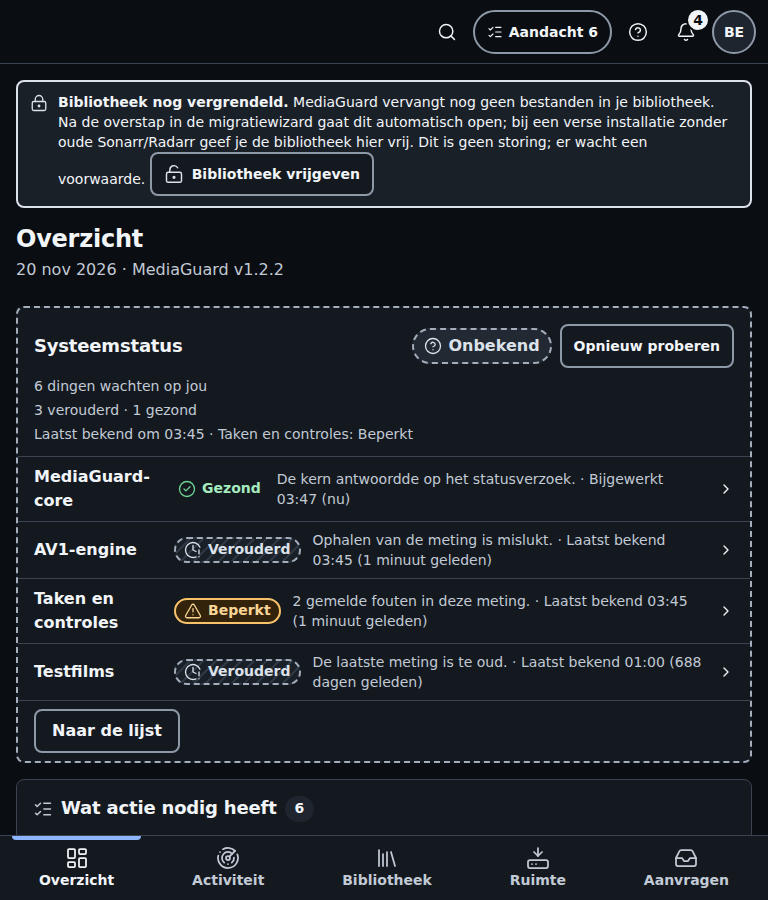
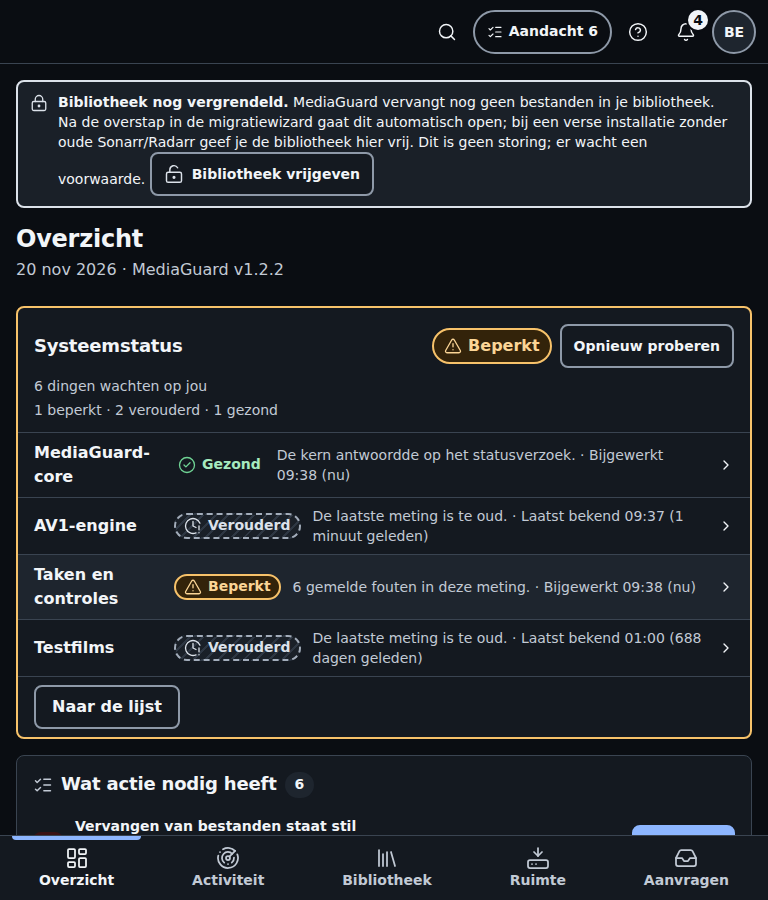
Leg de herstelde weergave op 768 pixels vast

diff --git a/docs/ontwerp/PEIL_REVIEW.md b/docs/ontwerp/PEIL_REVIEW.md
@@ -773,4 +773,8 @@ De meettijd hoort bij het leesverzoek dat het element voedt. Een actuele databas
 
 De uitvoerbare inventaris staat in `apps/web/e2e/werk-bronversheid.spec.ts`. De browser doorloopt voor iedere opgenomen bron en elk bijbehorend element vers, oud met HTTP 200, een afgebroken verbinding, HTTP 403 en herstel. Voor bronnen met een opgeslagen meettijd blijft de HTTP-datering vers terwijl uitsluitend het tijdveld in de gegevens veroudert. De aanvullende veiligheidsproef verandert de bron ná het openen van de dialoog en telt de schrijfverzoeken. De herhaalproef controleert de melding, Enter en horizontale overloop tijdens de storing op zes breedtes in beide thema’s.
 
+Bij meerdere ontbrekende actiebronnen toont de kopbalk de bevestigde ondergrens, het aantal ontbrekende bronnen en hun oudste meettijd. Ontbreekt een meettijd, dan verschijnt ‘Onbekend’. De toegankelijke beschrijving van de teller en de actiekaart noemen elke bron afzonderlijk. De meldingenbel toont haar eigen meettijd bij de knop. De breedteproef controleert ook de kophoogte en de bediening van de bel wanneer deze gegevens tegelijk verouderen of worden geweigerd.
+
+Op de uitgangsversie faalden zes van de zeven browserproeven van de reviewer. De breedteproef slaagde daar al. De herstelbuild doorstond alle 48 bron- en veiligheidsproeven, waaronder 35 tabelgevallen. De kopbalkproef vond op de vorige build 87 pixels horizontale overloop bij gelijktijdig verouderde metingen. Op de herstelbuild pasten kop en bel op de zes getoetste breedtes. De vergelijking gebruikt dezelfde zeven praktijksituaties op beide productiebuilds.
+
 De verwijderdialoog beschrijft welke koppeling, sleutel en maptoewijzingen de gebruiker verwijdert. De proef met één gevolgde server verifieert ook het aantal na de verwijdering.
